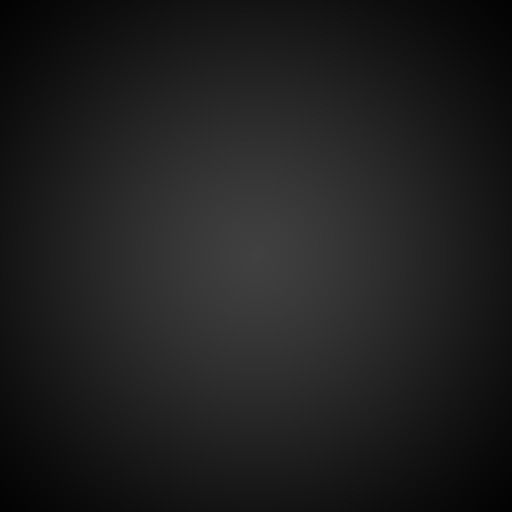
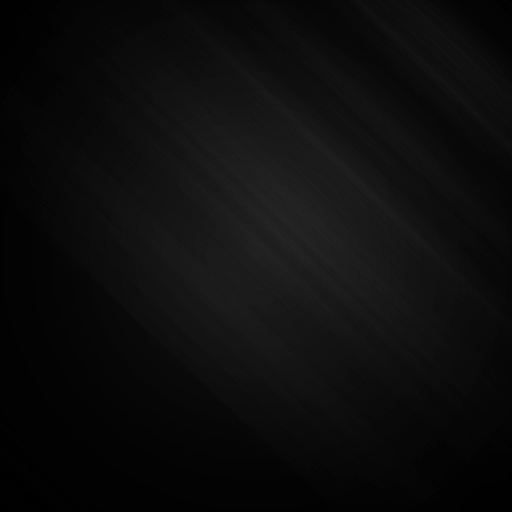
design update

Changed region(s): [[0.0938, 0.2812, 0.7188, 0.9062]]

diff --git a/index_rev.html b/index_rev.html
@@ -48,7 +48,6 @@
 
 		    var currentView = 0;
 		    var playerSelect = 1;
-		    var sizecube = 50;
 
 		    var dt = 1/60;
             var N = 60;
@@ -79,8 +78,7 @@
 
     	    OimoWorker.onmessage = function(e) {
     	    	var phase = e.data.tell;
-    	    	var t01 = Date.now();
-
+    	    	
     	    	// create mesh
 	            if(phase === "INIT"){
 	            	var max = e.data.types.length;
@@ -95,6 +93,7 @@
 
 				// update three object
     	    	else if( phase === "RUN"){
+    	    		var t01 = Date.now();
     	    		var max = e.data.sleeps.length;
     	    		var m = e.data.matrix;
         	    	var mtx, n, mesh;
@@ -124,7 +123,7 @@
 		            var t02 = Date.now();
 		            temp = t02-t01;
 
-		            delay = ((dt * 1000)) - (Date.now()-sendTime);
+		            delay = (dt * 1000) - (Date.now()-sendTime);
 	    	   	    if(delay < 0)  delay = 0;
 
 					displayInfo(e.data.infos);

diff --git a/index.html b/index.html
@@ -48,7 +48,6 @@
 
 		    var currentView = 0;
 		    var playerSelect = 1;
-		    var sizecube = 50;
 
 		    //var m;
 		    var dt = 1/60;
@@ -80,8 +79,7 @@
 
     	    OimoWorker.onmessage = function(e) {
     	    	var phase = e.data.tell;
-    	    	var t01 = Date.now();
-
+    	    	
     	    	// create mesh
 	            if(phase === "INIT"){
 	            	var max = e.data.types.length;
@@ -95,6 +93,7 @@
 
 				// update three object
     	    	else if( phase === "RUN"){
+    	    		var t01 = Date.now();
     	    		var max = e.data.sleeps.length;
     	    		var m = e.data.matrix;
         	    	var mtx, n, mesh;
@@ -124,7 +123,7 @@
 		            var t02 = Date.now();
 		            temp = t02-t01;
 
-		            delay = ((dt * 1000)) - (Date.now()-sendTime);
+		            delay = (dt * 1000) - (Date.now()-sendTime);
 	    	   	    if(delay < 0)  delay = 0;
 
 					displayInfo(e.data.infos);

diff --git a/js/ViewBasic.js b/js/ViewBasic.js
@@ -44,7 +44,7 @@ function initThree(option) {
 	else antialias = false
 
 	renderer = new THREE.WebGLRenderer({ antialias:antialias });
-	renderer.setClearColor( 0x303030, 1 );
+	renderer.setClearColor( 0x181818, 1 );
 	renderer.physicallyBasedShading = true;
 	renderer.gammaOutput = true;
 	renderer.gammaInput = true;
@@ -77,7 +77,7 @@ function initThree(option) {
 	if(!isOptimized){
 	    renderer.shadowMapEnabled = true;
 	    renderer.shadowMapSoft = true;
-		scene.fog = new THREE.Fog( 0x303030 , 1000, 2000 );
+		scene.fog = new THREE.Fog( 0x181818 , 1000, 2000 );
 		mirrorGround();
 		initLights();
 	}

diff --git a/css/style.css b/css/style.css
@@ -54,7 +54,7 @@ body {
  	top:40px;
  	position: absolute;
  	display:block;
- 	border:1px solid #333333;
+ 	border:1px solid #303030;
 }
 #cursor {
 	pointer-events: none;
